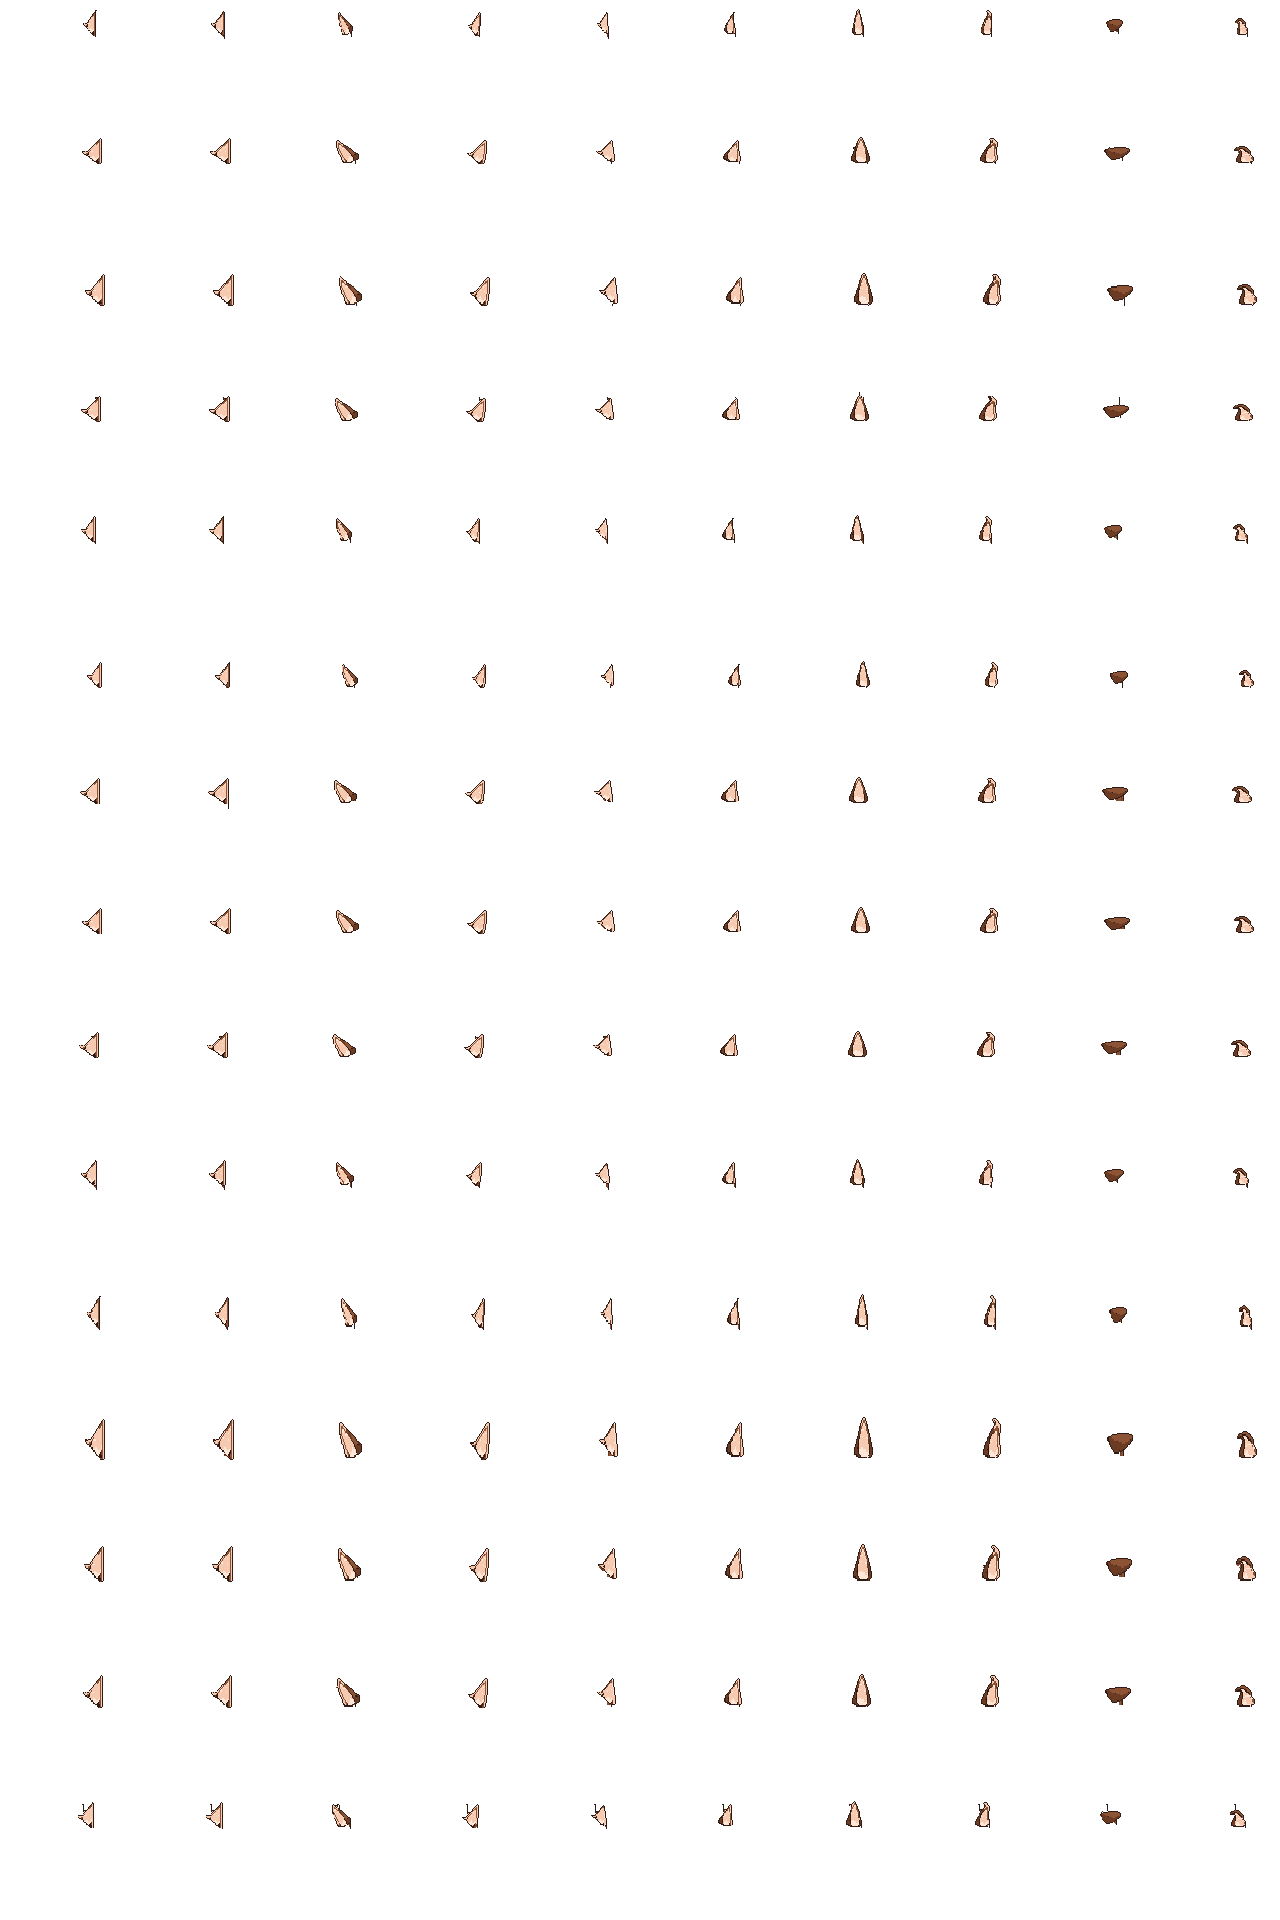
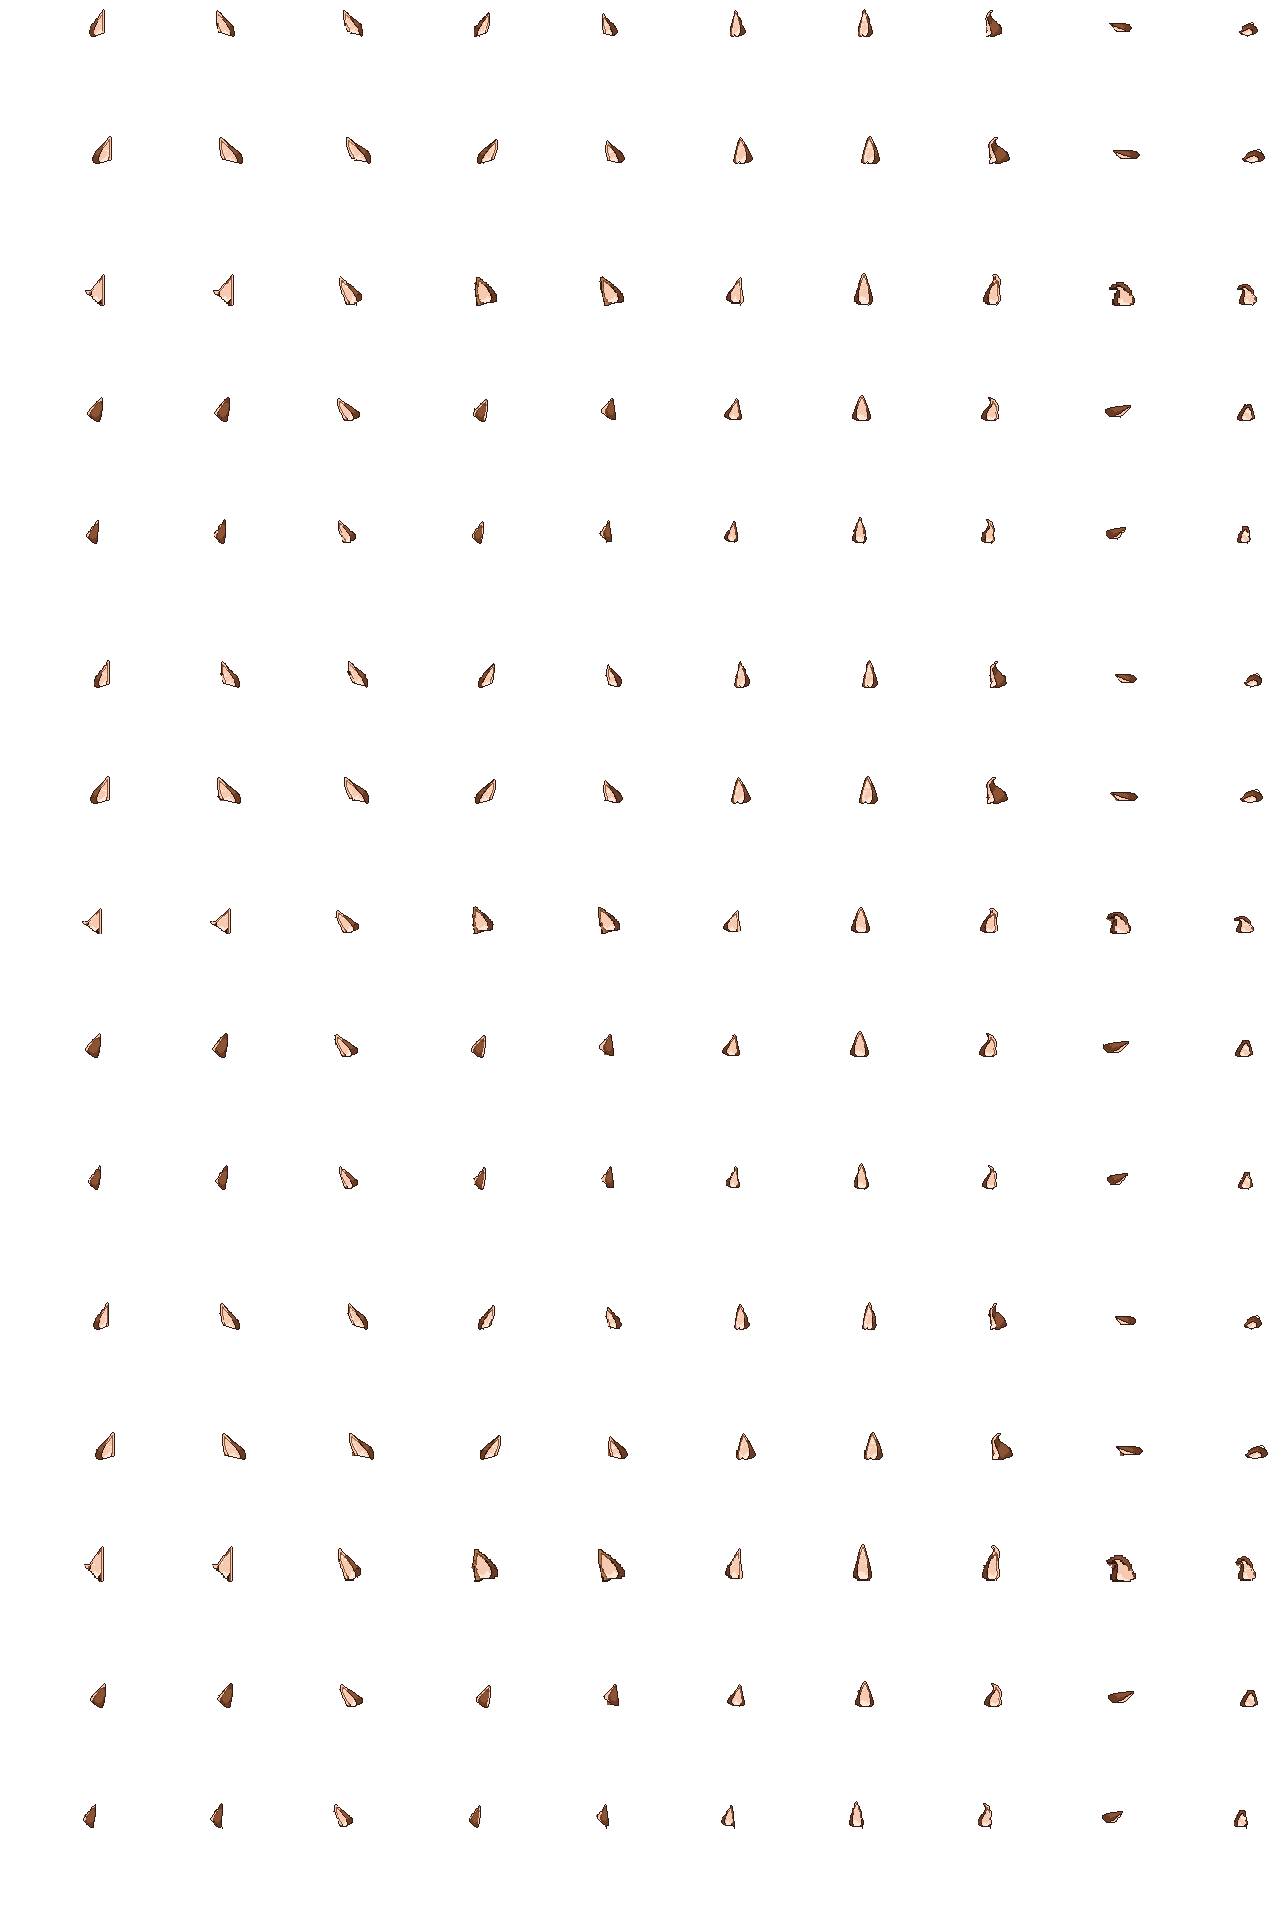
fox65i: sheet5 inward/curl frames at yaw 0, sheet6 45deg near/far ears for yaw ±1/±2 (1:1)

diff --git a/js/app.js b/js/app.js
@@ -8,9 +8,9 @@ const canvas = $('c'), ctx = canvas.getContext('2d');
 const video = $('video');
 const off = document.createElement('canvas'), octx = off.getContext('2d');      // 원본 해상도 합성
 const hc = document.createElement('canvas'), hctx = hc.getContext('2d');        // 머리 그룹 (롤 회전용)
-import { mic, startMic, micTick } from './mic.js?v=20261021-fox65h';
-import { createTail, tailStep } from './tail.js?v=20261021-fox65h';
-import { createEars, earStep } from './ears.js?v=20261021-fox65h';
+import { mic, startMic, micTick } from './mic.js?v=20261021-fox65i';
+import { createTail, tailStep } from './tail.js?v=20261021-fox65i';
+import { createEars, earStep } from './ears.js?v=20261021-fox65i';
 const earSt = createEars(); let earLast = 0;
 const CHARS = { fox65: 'assets/fox65/', fox64: 'assets/fox64/', fox63: 'assets/fox63/', fox62: 'assets/fox62/', fox61: 'assets/fox61/', fox6: 'assets/fox6/', fox53: 'assets/fox53/', fox52: 'assets/fox52/', fox51: 'assets/fox51/', fox5: 'assets/fox5/', fox4: 'assets/fox4/', fox3: 'assets/fox3/', fox2: 'assets/fox2/', test: 'assets/test/' };
 let ch = null; // {key, base, m, img, S}

diff --git a/index.html b/index.html
@@ -1,6 +1,6 @@
 <!doctype html><html lang="ko"><head><meta charset="utf-8">
 <meta name="viewport" content="width=device-width,initial-scale=1,viewport-fit=cover">
-<title>픽셀 VTuber — 퇴근여우</title><link rel="icon" href="data:,"><link rel="stylesheet" href="style.css?v=20261021-fox65h"></head><body>
+<title>픽셀 VTuber — 퇴근여우</title><link rel="icon" href="data:,"><link rel="stylesheet" href="style.css?v=20261021-fox65i"></head><body>
 <div id="stage"><canvas id="c" width="96" height="96"></canvas></div>
 <div id="hud"><span id="fps">FPS: -</span> <span id="status">대기 중</span> <span id="pose"></span><div id="meter" hidden>신남 <span class="track"><span id="meterBar"></span></span></div></div>
 <video id="video" playsinline muted autoplay></video>
@@ -26,4 +26,4 @@
  <button id="clean">클린 뷰 (OBS용)</button>
  <p class="hint">단축키: 1 자동 · 2 웃음 · 3 피곤 · 4 놀람 · 5 의기양양 · h 클린 뷰 · Esc/더블탭 해제</p>
 </div>
-<script type="module" src="js/app.js?v=20261021-fox65h"></script></body></html>
+<script type="module" src="js/app.js?v=20261021-fox65i"></script></body></html>
